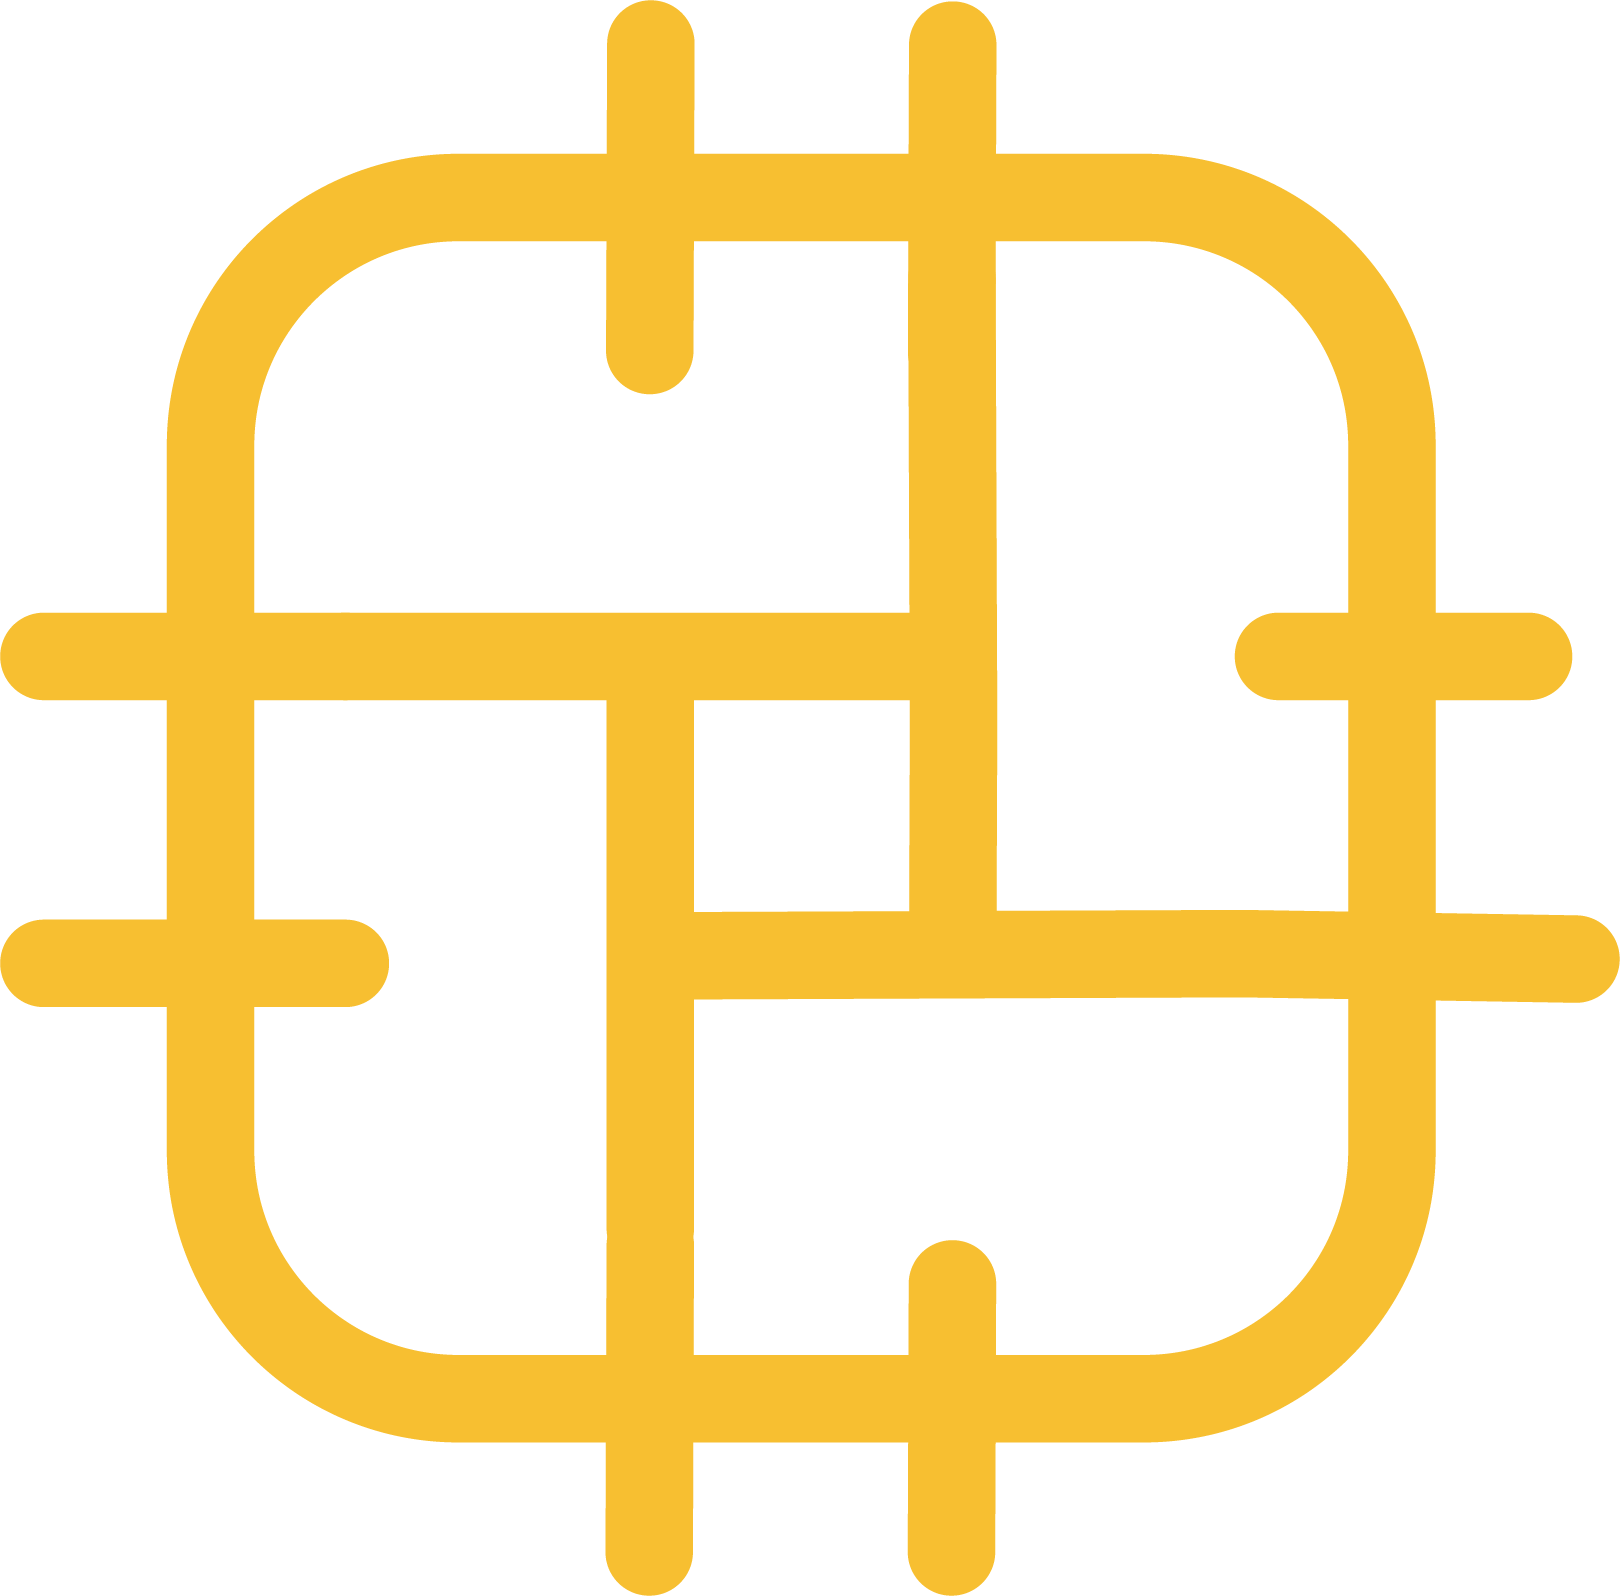
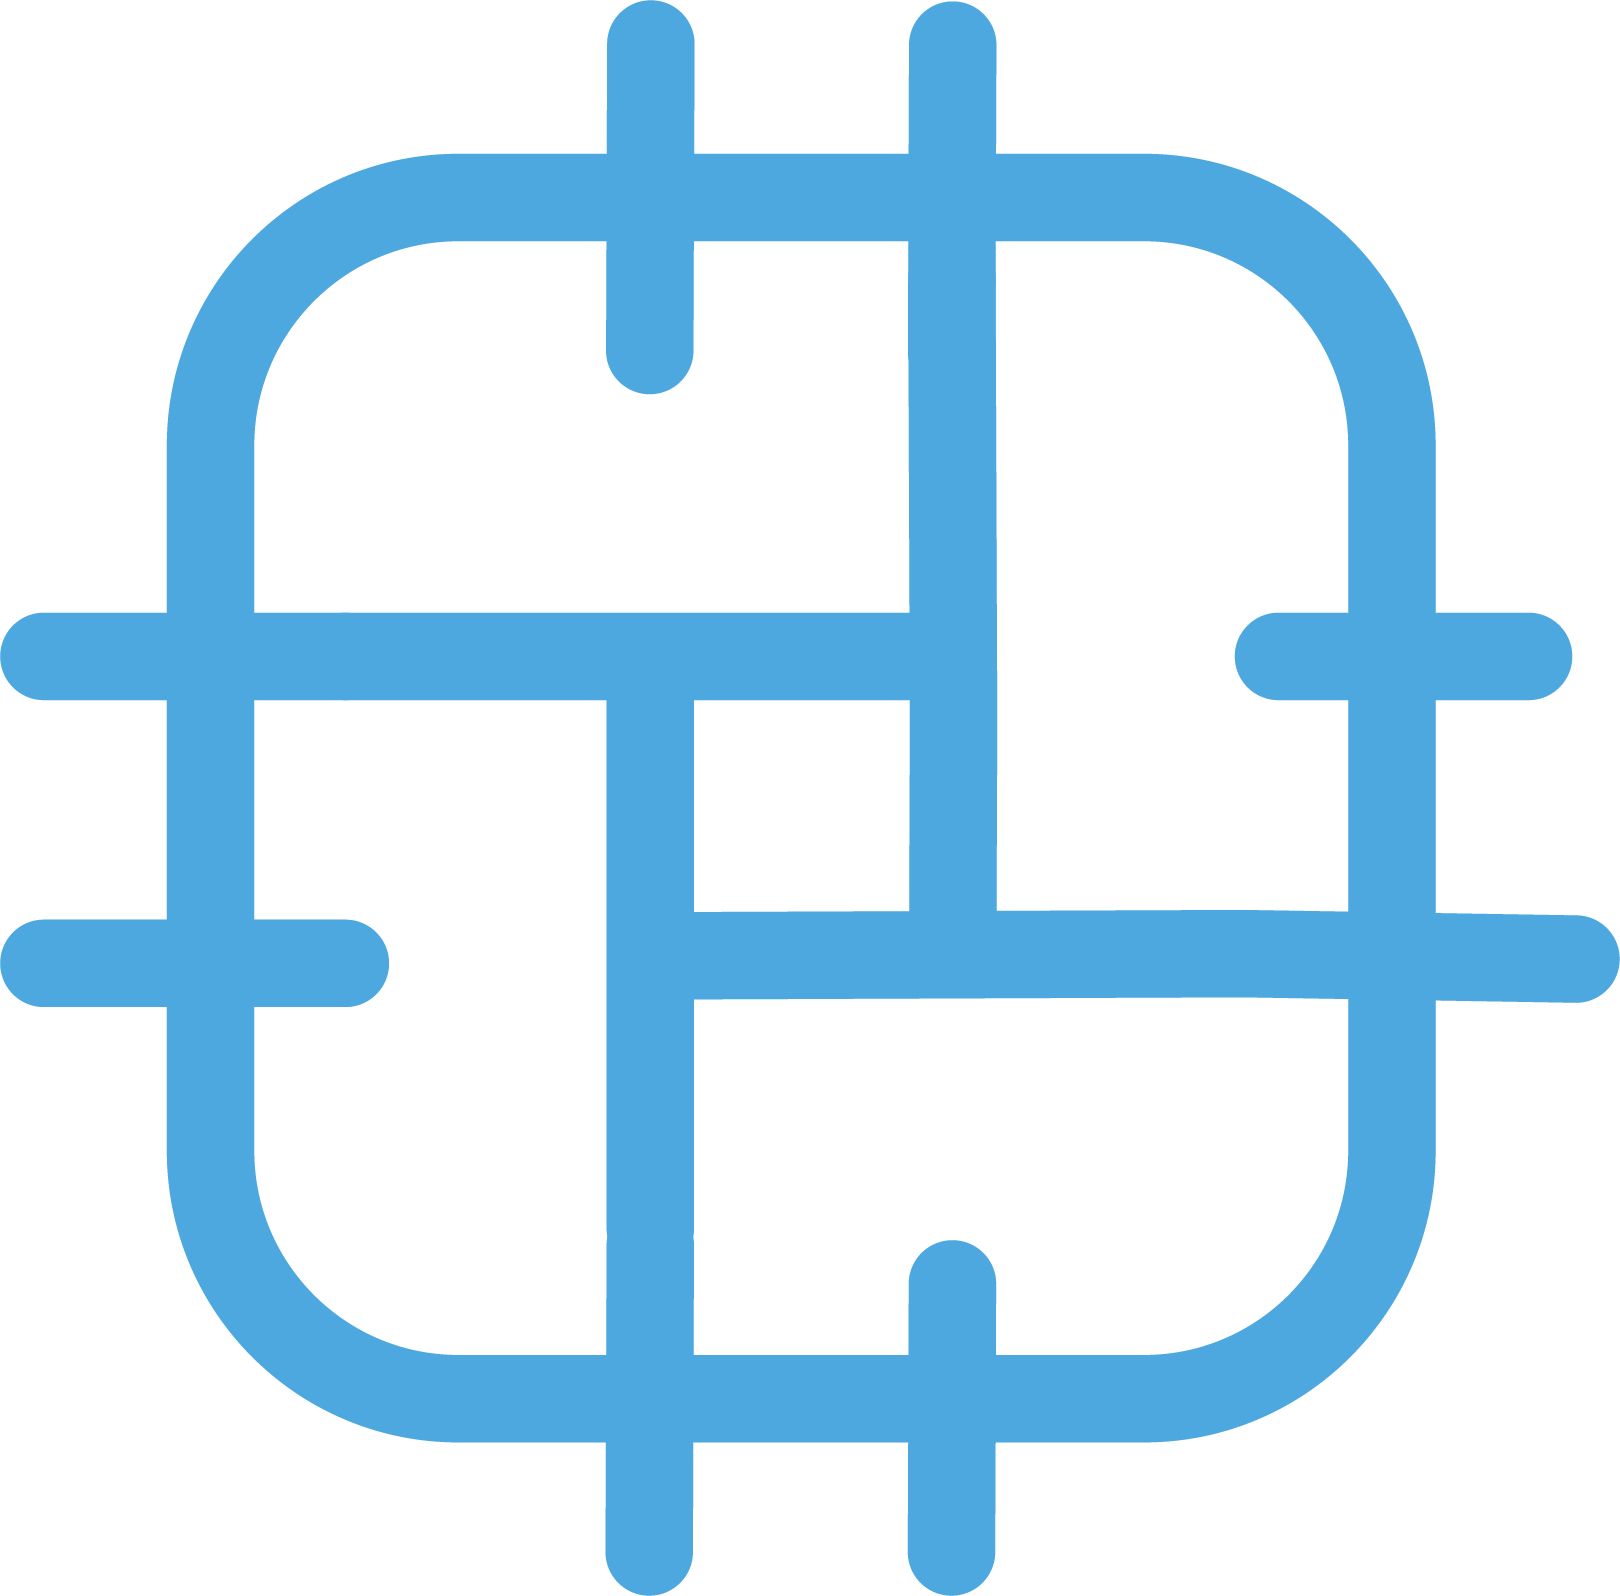
Updated title colours

Changed region(s): [[0.0, 0.0, 1.0, 1.0]]

diff --git a/public/css/main.css b/public/css/main.css
@@ -11323,7 +11323,7 @@ h2 {
 
 h2 {
     font-size: 32px;
-    color: #4ea8df
+    color: #005b92
 }
 
 @media (min-width:992px) {
@@ -11345,7 +11345,7 @@ h3 {
 @media (min-width:992px) {
     h3 {
         font-size: 32px;
-        color: #4ea8df
+        color: #005b92
     }
 
     p {
@@ -12731,7 +12731,7 @@ textarea:focus {
 
     .rad-showcase .container h1 {
         font-size: 48px;
-        color: #4ea8df;
+        color: #005b92;
     }
 }
 

diff --git a/themes/raditian-free-hugo-theme/static/css/main.css b/themes/raditian-free-hugo-theme/static/css/main.css
@@ -11323,7 +11323,7 @@ h2 {
 
 h2 {
     font-size: 32px;
-    color: #4ea8df
+    color: #005b92
 }
 
 @media (min-width:992px) {
@@ -11345,7 +11345,7 @@ h3 {
 @media (min-width:992px) {
     h3 {
         font-size: 32px;
-        color: #4ea8df
+        color: #005b92
     }
 
     p {
@@ -12731,7 +12731,7 @@ textarea:focus {
 
     .rad-showcase .container h1 {
         font-size: 48px;
-        color: #4ea8df;
+        color: #005b92;
     }
 }
 
